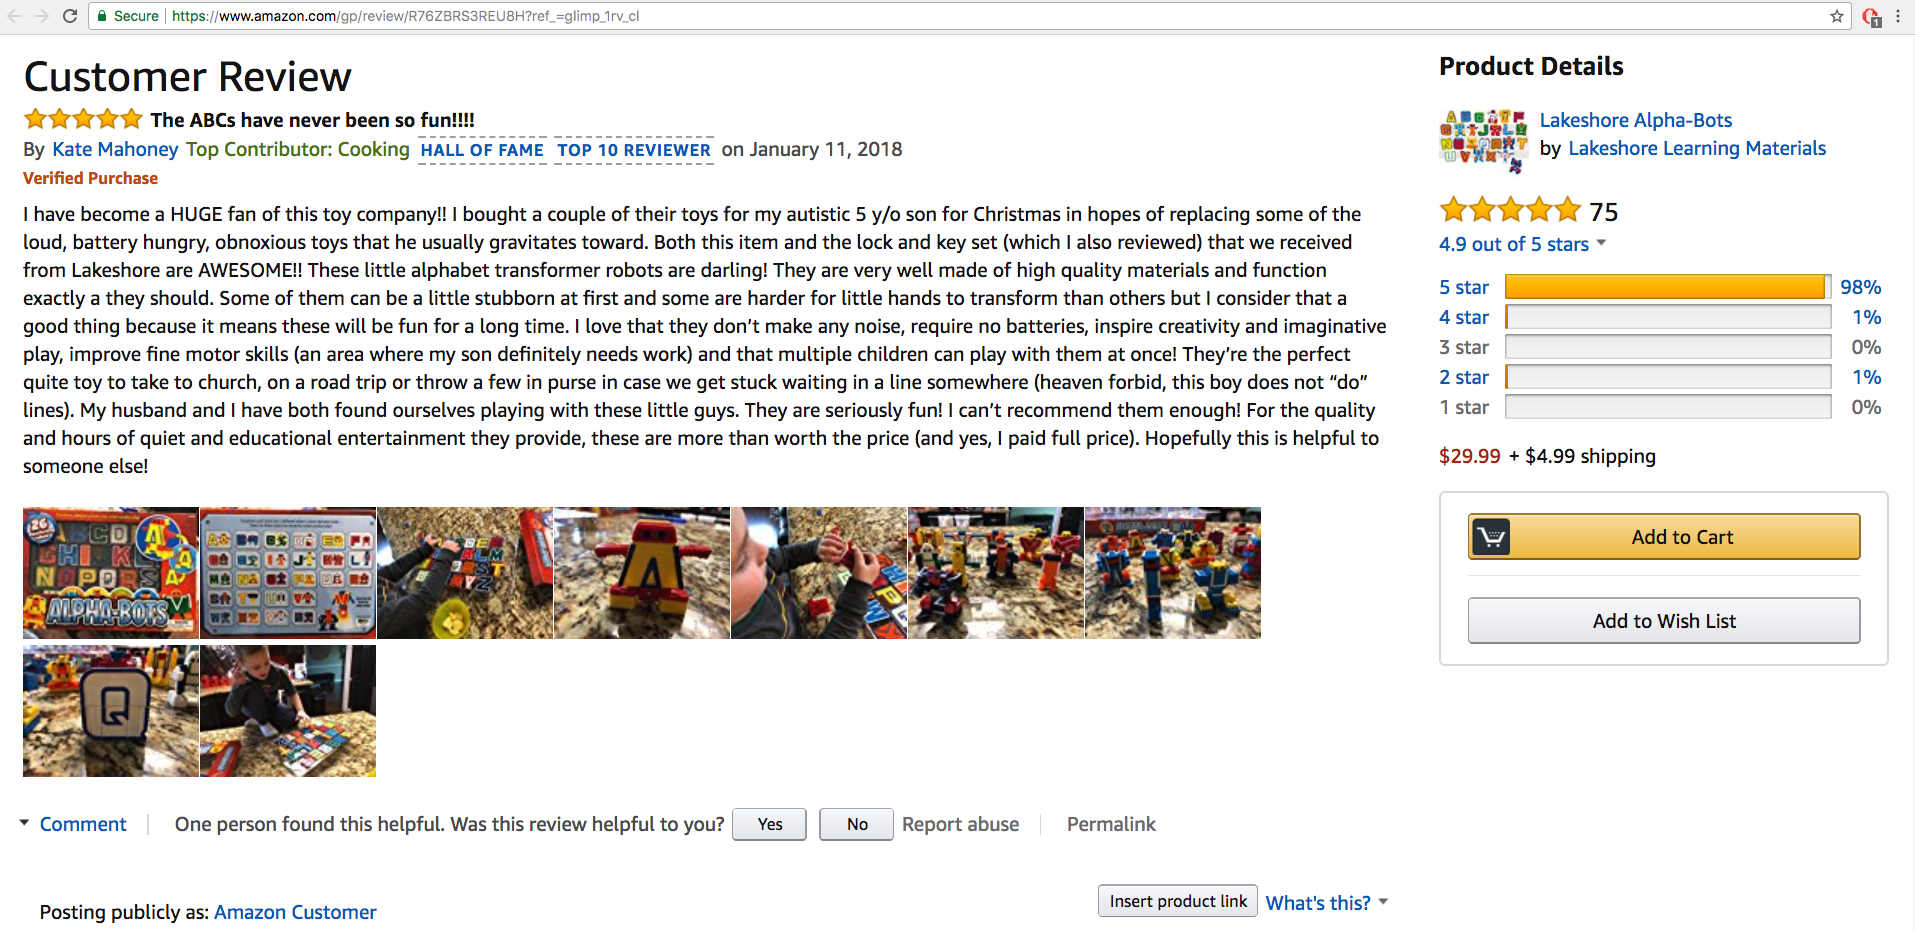
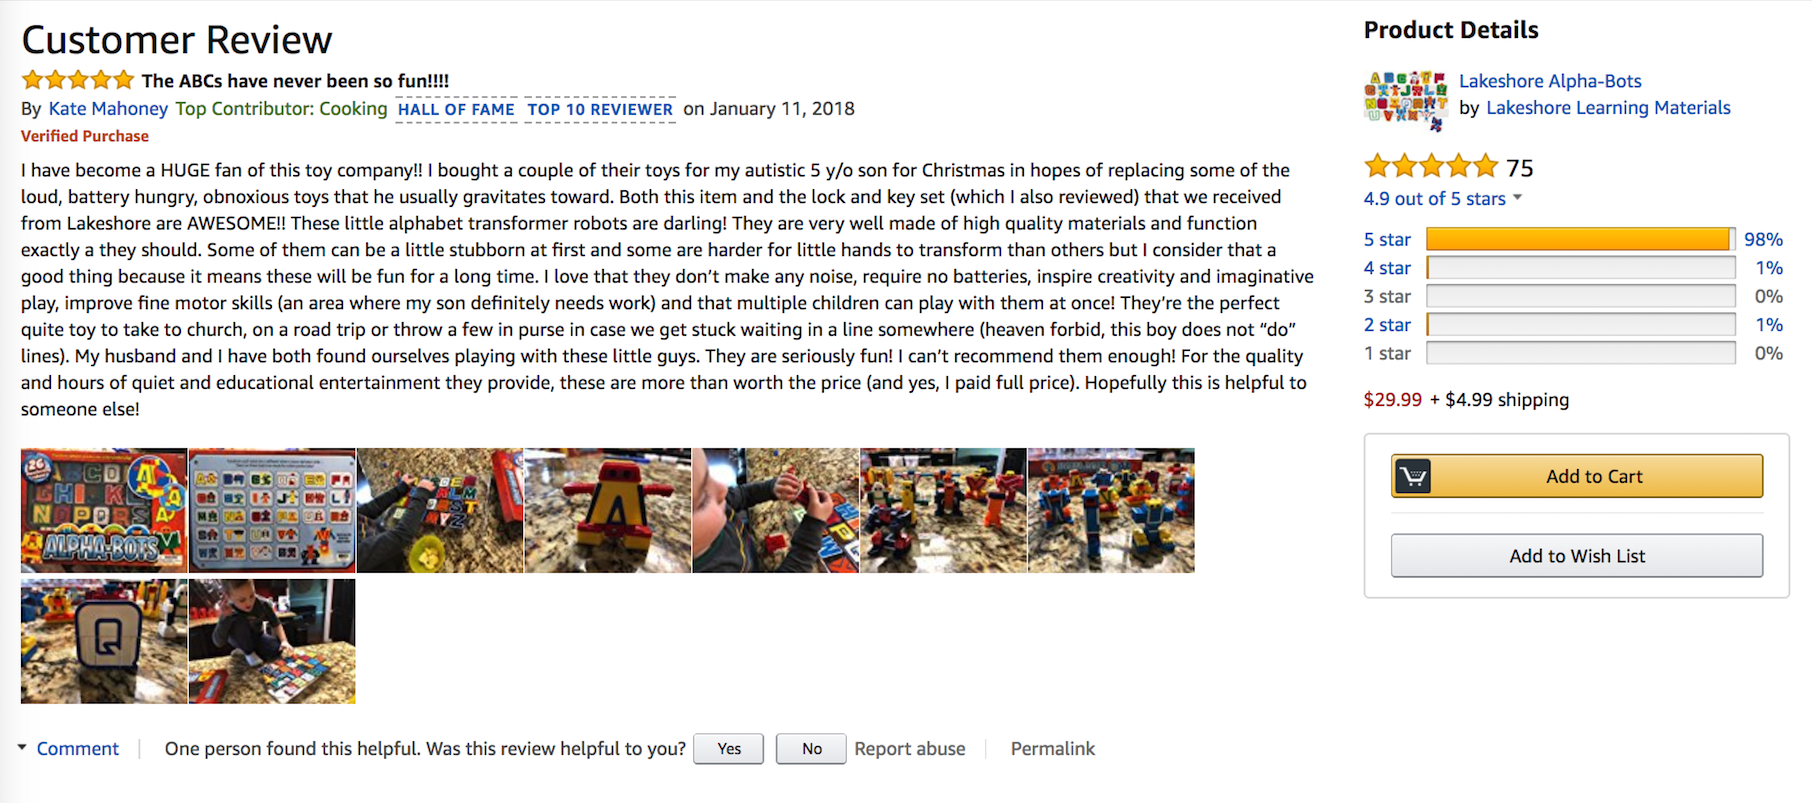
remove url from reviews.png and change to A in Readme

diff --git a/README.md b/README.md
@@ -2,7 +2,7 @@
 Disclaimer:  This project is only a demonstration of what are the problems and how to solve them when retrieving data from the web. Please do not violate any website's term of use. Do this at your own risks.
 ## Example Task
 Retrieve all the attributes (about 25, shown in the page below) from top 1000 reviewers' reviews on A website since 8/1/2016. 
-> I am just taking Amazon's website as an example. I will never encourage anyone to violate A website's term of use.
+> I am just taking A's website as an example. I will never encourage anyone to violate A website's term of use.
 
 ![example_reviews](pics/example_reviews.png?raw=true "Title")
 	
@@ -37,6 +37,8 @@ Retrieve all the attributes (about 25, shown in the page below) from top 1000 re
 - This step is the most difficult part due to the scale (120,000 pages) of the example.
 1. IP ban
 	- use [VPN](https://en.wikipedia.org/wiki/Virtual_private_network), preferably the ones that has a lot of servers and ones that can can change ip automatically.
+	- Change User-Agent to avoid been banned.
+
 2. "I'm not a robot" test
 
 ![i_am_not_a_robot](pics/i_am_not_a_robot.jpg?raw=true "Title")
